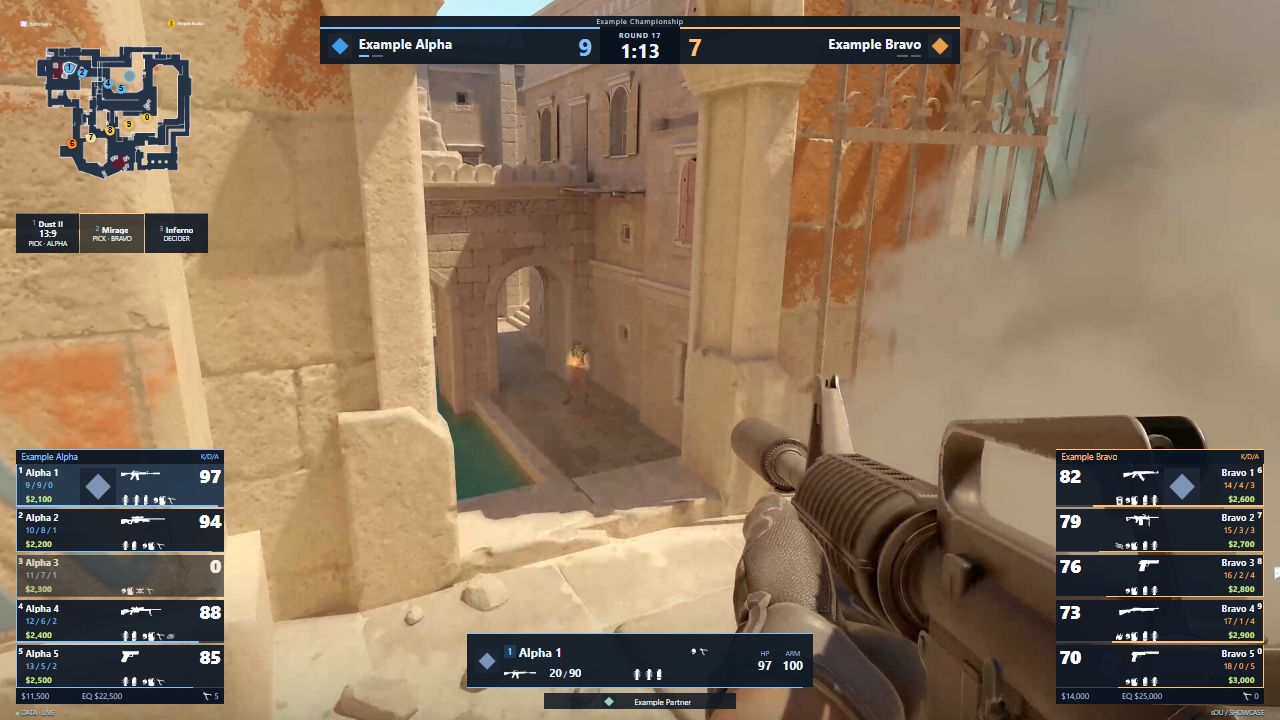
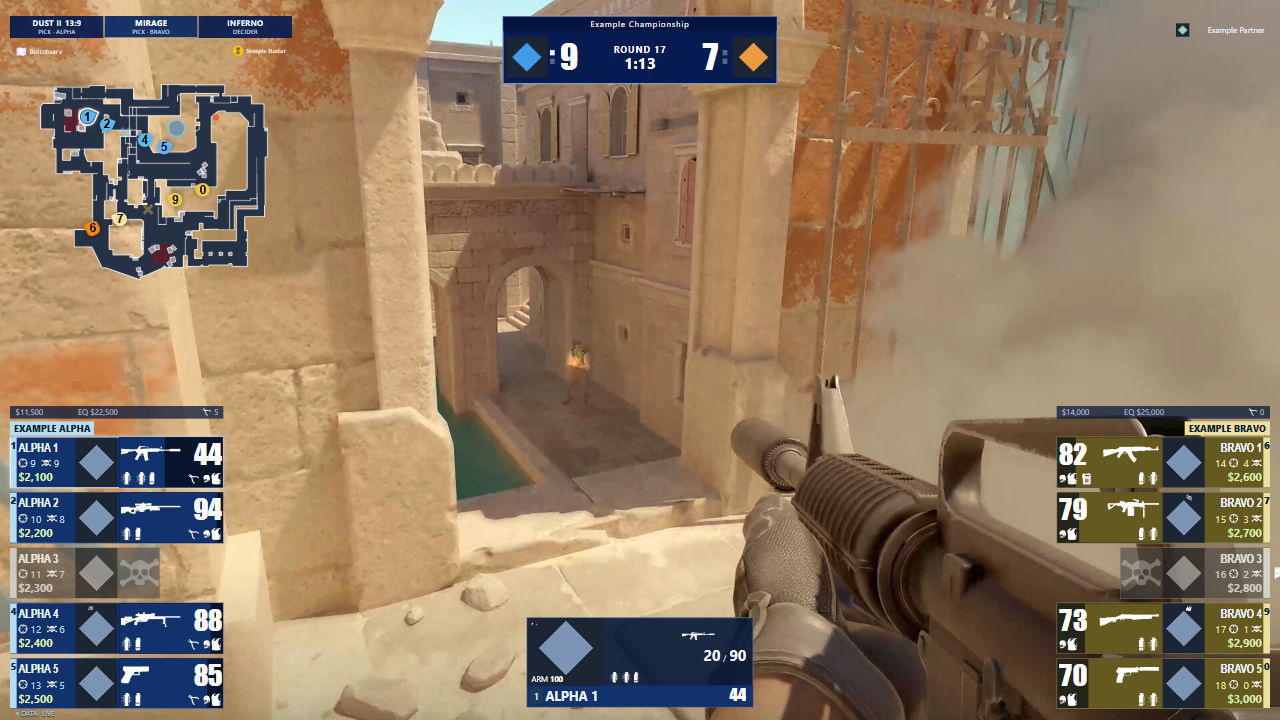
Release 0.4.10 with broadcast playercard layout

diff --git a/src/broadcast-layout.css b/src/broadcast-layout.css
@@ -1,0 +1,114 @@
+/* Cast reference layout. Geometry uses a 1920 x 1080 canvas; game artwork stays original.
+   Live scene only: presentation views retain their existing layouts. */
+.stage.view-live { --broadcast-blue: #071c50; --ct-fill: #12336d; --t-fill: #655b20; }
+.stage.view-live .ct { --side: #b6def5; --card-fill: var(--ct-fill); --card-empty: #09152bd9; }
+.stage.view-live .t { --side: #eee1a0; --card-fill: var(--t-fill); --card-empty: #25241ad9; }
+.stage.view-live .scoreboard { left: 39.25%; top: 1.25cqw; width: 21.5%; height: 5.3cqw; overflow: hidden; background: var(--broadcast-blue); border: .08cqw solid #b6def5; }
+.stage.view-live .live-map-series { left: .8cqw; top: 1.25cqw; width: 22cqw; height: 1.7cqw; gap: .08cqw; }
+.stage.view-live .live-map-series article { flex-direction: row; flex-wrap: wrap; align-content: center; align-items: center; justify-content: center; gap: 0 .25cqw; padding: .08cqw .15cqw; background: #071c50ed; border: 0; border-bottom: .1cqw solid transparent; }
+.stage.view-live .live-map-series article[aria-current="step"] { background: #102d64f5; border-bottom-color: var(--side,#eee1a0); color: #fff; }
+.stage.view-live .live-map-series strong { padding: 0; font-size: .65cqw; text-transform: uppercase; }
+.stage.view-live .live-map-series .map-pick { display: block; width: 100%; font-size: .5cqw; line-height: 1.1; color: #d6deec; text-align: center; white-space: nowrap; overflow: hidden; text-overflow: ellipsis; }
+.stage.view-live .roster { top: 58.333333%; width: 16.666667%; height: 40.2%; overflow: visible; }
+.stage.view-live .roster.ct { left: .8%; }
+.stage.view-live .roster.t { left: 82.533333%; }
+.stage.view-live .roster-economy { position: absolute; left: 0; right: 0; top: -1.1cqw; bottom: auto; height: 1cqw; background: #091a3bbf; }
+.stage.view-live .roster-heading, .stage.view-live .roster-title { position: relative; inset: auto; height: 1.3cqw; padding: 0; background: transparent; border: 0; align-items: center; color: #fff; }
+.stage.view-live .roster-heading span:first-child, .stage.view-live .roster-title > span { display: inline-block; max-width: 78%; padding: .12cqw .3cqw; color: #102137; background: var(--side); font-size: .7cqw; font-weight: 800; text-transform: uppercase; }
+.stage.view-live .roster-heading span:last-child, .stage.view-live .roster-title small { position: absolute; width: 1px; height: 1px; overflow: hidden; clip-path: inset(50%); }
+.stage.view-live .roster.t .roster-heading, .stage.view-live .roster.t .roster-title { flex-direction: row-reverse; }
+.stage.view-live .roster .player-row { isolation: isolate; position: relative; display: grid; grid-template-columns: .5cqw 4.35cqw 3.3cqw minmax(0,1fr); grid-template-areas: "slot identity portrait loadout"; gap: .12cqw; height: 4cqw; padding: 0; background: var(--card-fill); border: .06cqw solid #aab9cc77; border-inline-start: 0; overflow: hidden; }
+.stage.view-live .roster .player-row + .player-row { margin-top: .32cqw; }
+.stage.view-live .roster .card-slot { grid-area: slot; align-items: start; align-self: stretch; margin: 0; height: 100%; padding-top: .16cqw; font-size: .75cqw; font-weight: 800; background: var(--side); color: #17283b; }
+.stage.view-live .roster .card-identity { grid-area: identity; display: grid; grid-template-rows: 1.25cqw 1.1cqw 1.1cqw; align-content: center; min-width: 0; }
+.stage.view-live .roster .player-name { font-family: "Arial Narrow", "Bahnschrift Condensed", sans-serif; font-size: .9cqw; font-weight: 750; text-transform: uppercase; }
+.stage.view-live .roster .card-stats { overflow: hidden; display: flex; align-items: center; gap: .4cqw; font-size: .82cqw; color: var(--side); }
+.stage.view-live .roster .card-stats > span { display: inline-flex; align-items: center; gap: .17cqw; }
+.stage.view-live .roster .card-stats .icon { --icon-height: .78cqw; --icon-max-width: 1cqw; }
+.stage.view-live .roster .card-money { font-size: .85cqw; color: #d4edb2; }
+.stage.view-live .roster .card-portrait { grid-area: portrait; min-width: 0; height: 100%; overflow: hidden; }
+.stage.view-live .roster .card-portrait .roster-portrait { width: 100%; height: 100%; max-height: 4cqw; object-fit: cover; object-position: center bottom; }
+.stage.view-live .roster .card-loadout { grid-area: loadout; position: relative; isolation: isolate; margin: 0; height: 100%; padding: .16cqw .12cqw .2cqw; display: grid; grid-template-rows: 2.1cqw 1.15cqw; row-gap: .28cqw; align-content: center; background: var(--card-empty); }
+.stage.view-live .roster .card-armament, .stage.view-live .roster .card-equipment { position: relative; z-index: 1; }
+.stage.view-live .roster .card-armament { display: grid; grid-template-columns: minmax(0,1fr) 2.65cqw; gap: .2cqw; align-items: center; }
+.stage.view-live .roster .card-armament .weapon-cell { height: 1.6cqw; }
+.stage.view-live .roster .card-armament .weapon-icon { --icon-height: 1.6cqw; --icon-max-width: 4.7cqw; }
+.stage.view-live .roster .card-health { font-family: Impact,"Arial Narrow",sans-serif; font-size: 2.2cqw; font-weight: 400; color: #fff; }
+.stage.view-live .roster .card-equipment { display: grid; grid-template-columns: minmax(0,1fr) auto; align-items: end; height: 1.15cqw; gap: .4cqw; }
+.stage.view-live .roster .card-equipment .inventory:not(.full-inventory) { --utility-height: 1cqw; justify-self: start; }
+.stage.view-live .roster .card-status { display: inline-flex; align-items: end; gap: .25cqw; font-size: .85cqw; justify-self: end; }
+.stage.view-live .roster .card-status .icon { --icon-height: .95cqw; --icon-max-width: 1.45cqw; }
+.stage.view-live .roster .card-status .equipment-badges { gap: .25cqw; }
+.stage.view-live .roster .card-loadout > .meter { position: absolute; inset: 0; width: 100%; height: 100%; margin: 0; z-index: 0; border: 0; pointer-events: none; background: var(--card-empty); }
+.stage.view-live .roster .card-loadout > .meter::-webkit-progress-value { height: 100%; margin: 0; background: var(--card-fill); }
+.stage.view-live .roster .card-conditions { position: absolute; left: 6cqw; top: .12cqw; display: flex; align-items: center; gap: .12cqw; z-index: 2; }
+.stage.view-live .roster .card-conditions .icon { --icon-height: .55cqw; --icon-max-width: .7cqw; }
+.stage.view-live .roster .player-row.observed { background: var(--card-fill); outline: .06cqw solid #fff; outline-offset: -.06cqw; box-shadow: 0 0 .4cqw #d3eeff99; }
+.stage.view-live .roster .player-row.dead { width: 11.7cqw; grid-template-columns: .5cqw 4.35cqw 3.3cqw minmax(0,1fr); grid-template-areas: "slot identity portrait death"; background: #454545b8; filter: grayscale(1); opacity: .8; }
+.stage.view-live .roster .player-row.dead .card-money { color: #ddd; }
+.stage.view-live .roster .card-death { grid-area: death; display: grid; place-items: center; min-width: 0; overflow: hidden; }
+.stage.view-live .roster .card-death .icon { --icon-height: 3.8cqw; --icon-max-width: 3.3cqw; opacity: .35; }
+.stage.view-live .roster.t .player-row { padding: 0; border-inline-start: .06cqw solid #aab9cc77; border-inline-end: 0; grid-template-columns: minmax(0,1fr) 3.3cqw 4.35cqw .5cqw; grid-template-areas: "loadout portrait identity slot"; }
+.stage.view-live .roster.t .card-loadout { margin: 0; }
+.stage.view-live .roster.t .card-armament { grid-template-columns: 2.65cqw minmax(0,1fr); }
+.stage.view-live .roster.t .card-stats { justify-content: end; flex-direction: row; }
+.stage.view-live .roster.t .card-stats > span { flex-direction: row-reverse; }
+.stage.view-live .roster.t .card-equipment { grid-template-columns: auto minmax(0,1fr); }
+.stage.view-live .roster.t .card-equipment .inventory:not(.full-inventory) { grid-column: 2; grid-row: 1; justify-self: end; }
+.stage.view-live .roster.t .card-status { grid-column: 1; grid-row: 1; justify-self: start; }
+.stage.view-live .roster.t .card-loadout > .meter { transform: scaleX(-1); }
+.stage.view-live .roster.t .card-conditions { left: auto; right: 6cqw; }
+.stage.view-live .roster.t .player-row.dead { margin-inline-start: auto; grid-template-columns: minmax(0,1fr) 3.3cqw 4.35cqw .5cqw; grid-template-areas: "death portrait identity slot"; }
+.stage.view-live .round-history { top: 7cqw; }
+.stage.view-live .killfeed { right: .8%; top: 8cqw; }
+.stage.view-live .sponsors, .stage.view-live .sponsor-rail { left: auto; right: 1.2%; top: 1.25cqw; width: 20cqw; height: 2.2cqw; background: transparent; justify-content: flex-end; }
+.stage.view-live .signature { display: none; }
+
+.stage.view-live .broadcast-caption { height: 1.1cqw; font-size: .65cqw; color: #fff; background: #061641; }
+.stage.view-live .scoreboard-main { top: 0; grid-template-columns: minmax(0,1fr) 4.4cqw minmax(0,1fr); }
+.stage.view-live .has-caption .scoreboard-main { top: 1.1cqw; }
+.stage.view-live .team-score { display: grid; grid-template-columns: 3.2cqw .6cqw minmax(0,1fr); gap: .2cqw; padding: .15cqw .25cqw; border: 0; }
+.stage.view-live .team-score .local-image { width: 3.2cqw; height: 3.2cqw; }
+.stage.view-live .team-score > div { min-width: 0; }
+.stage.view-live .team-score:has(.local-image) h1 { position: absolute; width: 1px; height: 1px; overflow: hidden; clip-path: inset(50%); }
+.stage.view-live .team-score:not(:has(.local-image)) { grid-template-columns: minmax(0,1fr) 2.8cqw; }
+.stage.view-live .team-score:not(:has(.local-image)) h1 { font-size: .8cqw; }
+.stage.view-live .series-pips { flex-direction: column; gap: .25cqw; margin: 0; }
+.stage.view-live .series-pips i { width: .4cqw; height: .4cqw; background: #536986; }
+.stage.view-live .series-pips i.won { background: #fff; }
+.stage.view-live .team-score.t { grid-template-columns: minmax(0,1fr) .6cqw 3.2cqw; }
+.stage.view-live .team-score.t:not(:has(.local-image)) { grid-template-columns: 2.8cqw minmax(0,1fr); }
+.stage.view-live .team-score.t .score { grid-column: 1; grid-row: 1; }
+.stage.view-live .team-score.t > div { grid-column: 2; grid-row: 1; }
+.stage.view-live .team-score.t .local-image { grid-column: 3; grid-row: 1; }
+.stage.view-live .score { font-family: Impact,"Arial Narrow",sans-serif; font-size: 2.65cqw; font-weight: 400; color: #fff; }
+.stage.view-live .round-info { background: transparent; }
+.stage.view-live .round-label { font-size: .72cqw; color: #fff; }
+.stage.view-live .clock { font-size: 1.25cqw; color: #fff; }
+.stage.view-live .round-info.bomb { background: #8b3023; }
+.stage.view-live .radar { left: .8cqw; top: 3.15cqw; width: 22cqw; height: 22cqw; }
+.stage.view-live .live-map-series article > span { display: none; }
+.stage.view-live .live-map-series b { width: auto; font-size: .65cqw; }
+.stage.view-live .roster ol { top: 1.3cqw; }
+.stage.view-live .roster .card-loadout > .meter::-webkit-progress-bar { background: var(--card-empty); }
+.stage.view-live .roster .card-loadout > .meter::-webkit-progress-value { background: var(--card-fill); }
+.stage.view-live .roster .card-loadout > .meter::-moz-progress-bar { background: var(--card-fill); }
+.stage.view-live .observed-player { left: 41.15%; top: auto; bottom: 1cqw; width: 17.7%; height: 7cqw; padding: 0; display: block; background: #091a3be8; border: .06cqw solid #b6def577; }
+.stage.view-live .observed-player::before { content: ""; position: absolute; bottom: 0; width: 100%; height: 1.65cqw; background: var(--card-fill); }
+.stage.view-live .observed-main, .stage.view-live .observed-identity, .stage.view-live .observed-weapon, .stage.view-live .observed-vitals { display: contents; }
+.stage.view-live .observed-avatar-cell { position: absolute; left: 0; top: 0; width: 6cqw; height: 5.3cqw; }
+.stage.view-live .observed-avatar-cell img { width: 100%; height: 100%; object-fit: cover; object-position: center bottom; }
+.stage.view-live .observed-identity > .observer-slot { position: absolute; left: .2cqw; bottom: .2cqw; width: 1cqw; height: 1.2cqw; font-size: .7cqw; }
+.stage.view-live .observed-identity h2 { position: absolute; left: 1.4cqw; bottom: .15cqw; width: 12cqw; height: 1.3cqw; font-size: 1cqw; text-transform: uppercase; }
+.stage.view-live .observed-vitals > div:first-child { position: absolute; bottom: .15cqw; right: .5cqw; color: #fff; }
+.stage.view-live .observed-vitals dt { display: none; }
+.stage.view-live .observed-vitals > div:first-child dd { font: 1.3cqw Impact,"Arial Narrow",sans-serif; }
+.stage.view-live .observed-vitals > div:last-child { position: absolute; top: 4.3cqw; left: .3cqw; color: #fff; }
+.stage.view-live .observed-vitals > div:last-child::before { content: "ARM "; font-size: .6cqw; }
+.stage.view-live .observed-vitals > div:last-child dd { display: inline; font-size: .6cqw; }
+.stage.view-live .observed-weapon > .weapon-cell { position: absolute; right: .5cqw; top: .6cqw; width: 5cqw; height: 1.2cqw; }
+.stage.view-live .observed-weapon > .ammo-cell { position: absolute; right: .5cqw; top: 2.3cqw; height: 1.3cqw; }
+.stage.view-live .observed-player .ammo { font-size: 1.15cqw; }
+.stage.view-live .observed-weapon > .utility-cell { position: absolute; left: 6.4cqw; right: .3cqw; top: 4.2cqw; height: .9cqw; }
+.stage.view-live .observed-identity .equipment-badges { position: absolute; left: .3cqw; top: .3cqw; }
+.stage.view-live .observed-player > .meter { display: none; }

diff --git a/src/ui/components/Players.jsx b/src/ui/components/Players.jsx
@@ -13,31 +13,42 @@ export function Inventory({ player, full = false, state }) {
     </li>))}
   </ul>;
 }
-export function PlayerBadges({ player, state, showHelmet = true }) {
+export function PlayerBadges({ player, state, showHelmet = true, showConditions = true }) {
   const base = state?.assetBase;
   return <span className="equipment-badges">{showHelmet && player.helmet === true && <Icon name="weapons/helmet" label="Helmet" base={base} />}
     {player.defuseKit === true && <Icon name="ui/defuser_white" label="Defuse kit" base={base} />}{hasBomb(player) && <Icon name="weapons/c4" label="Bomb carrier" base={base} />}
-    {player.flashed > 0 && <Icon name="killfeed/blind_kill" label={`Flashed ${player.flashed}`} base={base} />}
-    {player.smoked > 0 && <Icon name="killfeed/smoke_kill" label={`Smoked ${player.smoked}`} base={base} />}
-    {player.burning > 0 && <Icon name="weapons/inferno" label={`Burning ${player.burning}`} base={base} />}</span>;
+    {showConditions && player.flashed > 0 && <Icon name="killfeed/blind_kill" label={`Flashed ${player.flashed}`} base={base} />}
+    {showConditions && player.smoked > 0 && <Icon name="killfeed/smoke_kill" label={`Smoked ${player.smoked}`} base={base} />}
+    {showConditions && player.burning > 0 && <Icon name="weapons/inferno" label={`Burning ${player.burning}`} base={base} />}</span>;
 }
 export function PlayerRow({ player, state }) {
   const weapon = rosterWeapon(player), dead = playerDead(player);
   const selected = samePlayer(player, state.snapshot?.game?.observedPlayer);
   const profile = profileFor(state.snapshot, state.metadata, player.steamId, state.settings.feature.player);
   const name = playerName(player, profile);
+  const stats = `Kills / deaths / assists: ${statistic(player.stats?.kills)} / ${statistic(player.stats?.deaths)} / ${statistic(player.stats?.assists)}`;
   return <li className={`player-row${dead ? ' dead' : ''}${selected ? ' observed' : ''}`}>
-    <span className="observer-slot card-slot">{observerSlot(player.observerSlot)}</span>
+    <span className="observer-slot card-slot" aria-label={`Observer slot ${observerSlot(player.observerSlot)}`}>{!dead && observerSlot(player.observerSlot)}</span>
     <div className="card-identity"><strong className="player-name" title={name}>{name}</strong>
-      <span className="card-stats" aria-label="Kills / deaths / assists" title="Kills / deaths / assists">{statistic(player.stats?.kills)} / {statistic(player.stats?.deaths)} / {statistic(player.stats?.assists)}</span>
+      <span className="card-stats" aria-label={stats} title={stats}>
+        <span><Icon name="ui/crosshair_circle" label="Kills" base={state.assetBase} />{statistic(player.stats?.kills)}</span>
+        <span><Icon name="killfeed/icon_suicide" label="Deaths" base={state.assetBase} />{statistic(player.stats?.deaths)}</span>
+      </span>
       <span className="card-money">{money(player.money)}</span></div>
     <span className="card-portrait"><LocalImage path={profile?.avatar} name={name} media={state.media} className="roster-portrait" optional /></span>
-    <div className="card-loadout"><div className="card-armament"><span className="weapon-cell"><Icon weapon={weapon} base={state.assetBase} /></span>
-      <strong className="card-health" aria-label="Health" title="Health">{statistic(player.health)}</strong></div>
-      <div className="card-equipment"><Inventory player={player} state={state} /><span className="card-status">
-        {player.armor > 0 && <span className="card-armor" aria-label={`Armor: ${player.armor}`} title={`Armor: ${player.armor}`}><Icon name={player.helmet === true ? 'weapons/armor_helmet' : 'ui/armor'} label={player.helmet === true ? 'Armor and helmet' : 'Armor'} base={state.assetBase} /></span>}
-        {dead && <Icon name="killfeed/icon_suicide" label="Dead" base={state.assetBase} />}<PlayerBadges player={player} state={state} showHelmet={false} /></span></div></div>
-    <Meter value={player.health} label={`${name} health`} />
+    {dead ? <span className="card-death"><Icon name="killfeed/icon_suicide" label="Dead" base={state.assetBase} /></span>
+      : <><div className="card-loadout"><Meter value={player.health} label={`${name} health`} />
+        <div className="card-armament"><span className="weapon-cell"><Icon weapon={weapon} base={state.assetBase} /></span>
+          <strong className="card-health" aria-label="Health" title="Health">{statistic(player.health)}</strong></div>
+        <div className="card-equipment"><Inventory player={player} state={state} /><span className="card-status">
+          <PlayerBadges player={player} state={state} showHelmet={false} showConditions={false} />
+          {player.armor > 0 && <span className="card-armor" aria-label={`Armor: ${player.armor}`} title={`Armor: ${player.armor}`}><Icon name={player.helmet === true ? 'weapons/armor_helmet' : 'ui/armor'} label={player.helmet === true ? 'Armor and helmet' : 'Armor'} base={state.assetBase} /></span>}
+        </span></div></div>
+        <span className="card-conditions" aria-label="Player conditions">
+          {player.flashed > 0 && <Icon name="killfeed/blind_kill" label="Flashed" base={state.assetBase} />}
+          {player.smoked > 0 && <Icon name="killfeed/smoke_kill" label="In smoke" base={state.assetBase} />}
+          {player.burning > 0 && <Icon name="weapons/inferno" label="Burning" base={state.assetBase} />}
+        </span></>}
   </li>;
 }
 function EconomyFooter({ state, side }) {

diff --git a/tests/render.test.js b/tests/render.test.js
@@ -257,3 +257,21 @@ test('killfeed keeps full names, the assister side and meaningful icon order', (
   state.snapshot.game.killFeed = [{ ...entry, assister: null }];
   assert.doesNotMatch(renderToStaticMarkup(createElement(KillFeed, { state })), /alt="Flash assist"/);
 });
+
+test('reference card separates kill/death icons and keeps assists in its accessible statistics', () => {
+  const base = fixture('live').snapshot.game.players[0];
+  const html = renderPlayer(PlayerRow, { ...base, health: 44, stats: { kills: 8, deaths: 5, assists: 3 } });
+  assert.match(html, /ui\/crosshair_circle\.svg/);
+  assert.match(html, /killfeed\/icon_suicide\.svg/);
+  assert.match(html, /aria-label="Kills \/ deaths \/ assists: 8 \/ 5 \/ 3"/);
+  assert.ok(html.indexOf('class="card-loadout"') < html.indexOf('class="meter"'));
+});
+
+test('dead reference card removes health and loadout while retaining identity and the large death cue', () => {
+  const base = fixture('live').snapshot.game.players[0];
+  const html = renderPlayer(PlayerRow, { ...base, health: 0 });
+  assert.match(html, /class="card-death"/);
+  assert.match(html, /class="card-identity"/);
+  assert.doesNotMatch(html, /class="card-health"|class="card-loadout"|class="card-equipment"/);
+  assert.match(renderPlayer(PlayerRow, { ...base, health: null, isAlive: null }), /class="card-loadout"/);
+});

diff --git a/src/ui/icon-layout.css b/src/ui/icon-layout.css
@@ -113,3 +113,4 @@
 .cs2-icon[data-icon="killfeed/revenge"] { --icon-aspect: 1; --icon-image-width: 100%; --icon-image-height: 100%; --icon-image-left: 0%; --icon-image-top: 0%; }
 .cs2-icon[data-icon="killfeed/smokegrenade_impact"] { --icon-aspect: 1; --icon-image-width: 100%; --icon-image-height: 100%; --icon-image-left: 0%; --icon-image-top: 0%; }
 .cs2-icon[data-icon="killfeed/smoke_kill"] { --icon-aspect: 1; --icon-image-width: 100%; --icon-image-height: 100%; --icon-image-left: 0%; --icon-image-top: 0%; }
+.cs2-icon[data-icon="ui/crosshair_circle"] { --icon-aspect: 1; --icon-image-width: 100%; --icon-image-height: 100%; --icon-image-left: 0%; --icon-image-top: 0%; }

diff --git a/src/styles.css b/src/styles.css
@@ -1,3 +1,4 @@
+@import "./broadcast-layout.css";
 @import "./ui/icon-layout.css";
 :root { font-family: 'Segoe UI', Arial, sans-serif; color: #edf3fa; font-synthesis: none; text-rendering: optimizeLegibility; }
 * { box-sizing: border-box; }

diff --git a/README.md b/README.md
@@ -6,7 +6,7 @@ and seven presentation views. Every display uses public protocol-v2 snapshots, o
 local profile metadata, or an explicit operator setting. It does not invent
 players, match results, events or statistics.
 
-Current HUD version: **0.4.9**. Package ID: `sou-basic-react`.
+Current HUD version: **0.4.10**. Package ID: `sou-basic-react`.
 
 ![Packaged React HUD with calibrated radar, local icons and compact edge displays over a CS2 reference scene](docs/preview.png)
 
@@ -369,8 +369,8 @@ npm run package
 `SOU.Hud.Tool` **0.2.0-preview.4**, then packs and validates:
 
 ```text
-artifacts/sou-basic-react-0.4.9.souhud
-artifacts/sou-basic-react-0.4.9.souhud.sha256
+artifacts/sou-basic-react-0.4.10.souhud
+artifacts/sou-basic-react-0.4.10.souhud.sha256
 ```
 
 `npm run build` creates `dist/hud.json` and `dist/wwwroot` without packaging.
@@ -593,3 +593,19 @@ Roster rows show the carried primary firearm (rifle, sniper rifle, SMG, shotgun 
 The left roster places the observer slot and a three-line name / K-D-A / cash block on the outside, an optional portrait in the middle, and the carried weapon beside large white health digits on the inside. Compact utility and armor/kit/bomb/status icons occupy a separate row below the weapon, with a clear vertical gap. The right roster mirrors these areas without reversing text or original artwork. Armor values remain available in the icon title and accessible label; extended player details are in the presentation views.
 
 The 1920 × 1080 layout uses 312 × 64 pixel cards with 4 pixel gaps inside a 312 × 382 roster at y674. Missing or failed portraits leave the same empty image area without fallback artwork. Long names truncate within the name cell; values, portraits and inventories do not move adjacent regions. Weapon priority, repeated grenade icons and the complete chronological killfeed remain unchanged. Import 0.4.9 and reopen outputs.
+
+
+### Cast reference layout (0.4.10)
+
+The live scene follows the user-supplied broadcast reference: a narrow central blue scoreboard with upright series markers, a compact map/pick strip above the larger Boltobserv radar, and mirrored blue/gold rosters at the bottom edges. Each 320 × 76.8 reference-pixel card has an outer slot strip, identity/stats/cash, a fixed central portrait crop, and weapon/large HP above grouped utility and status icons. The background fill follows actual health; dead players retain their existing empty inventory behavior. Optional team economy remains in a slim rail above the rosters.
+
+The centered observed-player card uses an optional existing portrait, active weapon, ammo and a bottom name/HP strip. No webcam, camera feed, event/club branding, video frames or portraits from the private reference are shipped. Dynamic media still comes from the workspace. Missing media keeps fixed empty areas; unknown game values remain unknown. Other presentation scenes, source selection, radar interpolation, roster weapon priority and chronological killfeed are unchanged.
+
+The layout is in broadcast-layout.css and scoped to the live scene. This layout ships in 0.4.10; existing v0.4.9 release assets are unchanged.
+
+
+#### Player-card structure correction (0.4.10)
+
+The card structure now follows the detailed reference: name, original CS2 kill/death icons with counts, and cash on the outside; portrait in the middle; large carried weapon and HP above utility on the inside. Assists remain in the full statistics title and accessible label. Utility is anchored beside the portrait, with a separate kit/bomb/armor group at the inner edge. Transient conditions use their own small indicator row rather than pushing the equipment group. Health fill is confined to the loadout area; identity and portrait do not lose their background with health.
+
+Known-dead players use a 224.64-pixel grey card, no visible slot number, no health/loadout and a large original CS2 death icon. Row height and identity/portrait areas remain fixed. On the right the short card remains anchored to the outside edge; text and artwork stay upright and kills still precede deaths. The observed player uses a white outline. Missing health does not become death, and missing portraits keep their own empty area.

diff --git a/scripts/release-notes.md b/scripts/release-notes.md
@@ -1,5 +1,9 @@
-# 0.4.9
+# 0.4.10
 
-Mirrored player cards: name / K-D-A / cash on the outside, a larger portrait in the middle, carried weapon and large health digits on the inside. Utility and equipment stay together on a separate lower line with a clear gap from the weapon. Missing portraits remain empty without moving neighboring data.
+The live HUD follows the reviewed cast layout: a compact central scoreboard, vertical series markers, map/pick strip above a larger Boltobserv radar, and mirrored blue/gold rosters.
 
-Primary → pistol → knife selection, the active-weapon observer, repeated grenade icons and complete chronological killfeed are retained. All eight views and compatible panel settings remain available. Import 0.4.9 and reopen outputs. SDK and original artwork are unchanged. Browser verification does not replace native CS2/OBS acceptance.
+Player cards place kill/death icon groups and cash outside, portraits in the middle, and a large carried weapon with HP inside. Utility and kit/bomb/armor use separate bottom groups. Health fill is confined to the loadout. Dead cards shorten and turn grey without health or inventory; the observed player has a white outline. Assists remain in accessible statistics.
+
+Original CS2 SVGs, primary/pistol/knife priority, active observer equipment and the complete chronological killfeed are retained. All eight views and compatible panel settings remain available. No camera feed or private reference-media assets are included.
+
+Import 0.4.10 and reopen outputs. The public SDK remains 0.2.0-preview.4. Browser verification does not replace native CS2/OBS acceptance.

diff --git a/CHANGELOG.md b/CHANGELOG.md
@@ -1,5 +1,16 @@
 # Changelog
 
+## 0.4.10
+
+- Correct the actual player-card structure: kill/death icon groups, portrait, larger weapon/HP, utility near the portrait and kit/bomb/armor at the inner edge. Keep assists accessible.
+- Confine health fill to the loadout, shorten known-dead cards with a large death cue, and use a white observed-player outline. Mirror regions without reversing statistic order.
+- Add one unchanged original CS2 crosshair SVG with archive provenance and measured optical bounds.
+
+- Rebuild the live-scene layout around the supplied cast reference: narrow central scoreboard, vertical series markers, larger radar and map/pick strip above it.
+- Use mirrored blue/gold rosters, health-driven background fill, central portraits and compact equipment rows. Preserve optional economy in a slim rail above each roster.
+- Center the observed player in a compact portrait/loadout card with a bottom name/HP strip; no webcam or reference-video assets.
+- Preserve other scenes, transparent output, source logic, original icons and existing inventory/killfeed behavior.
+
 ## 0.4.9
 
 - Mirror the two roster layouts around larger central portraits.
